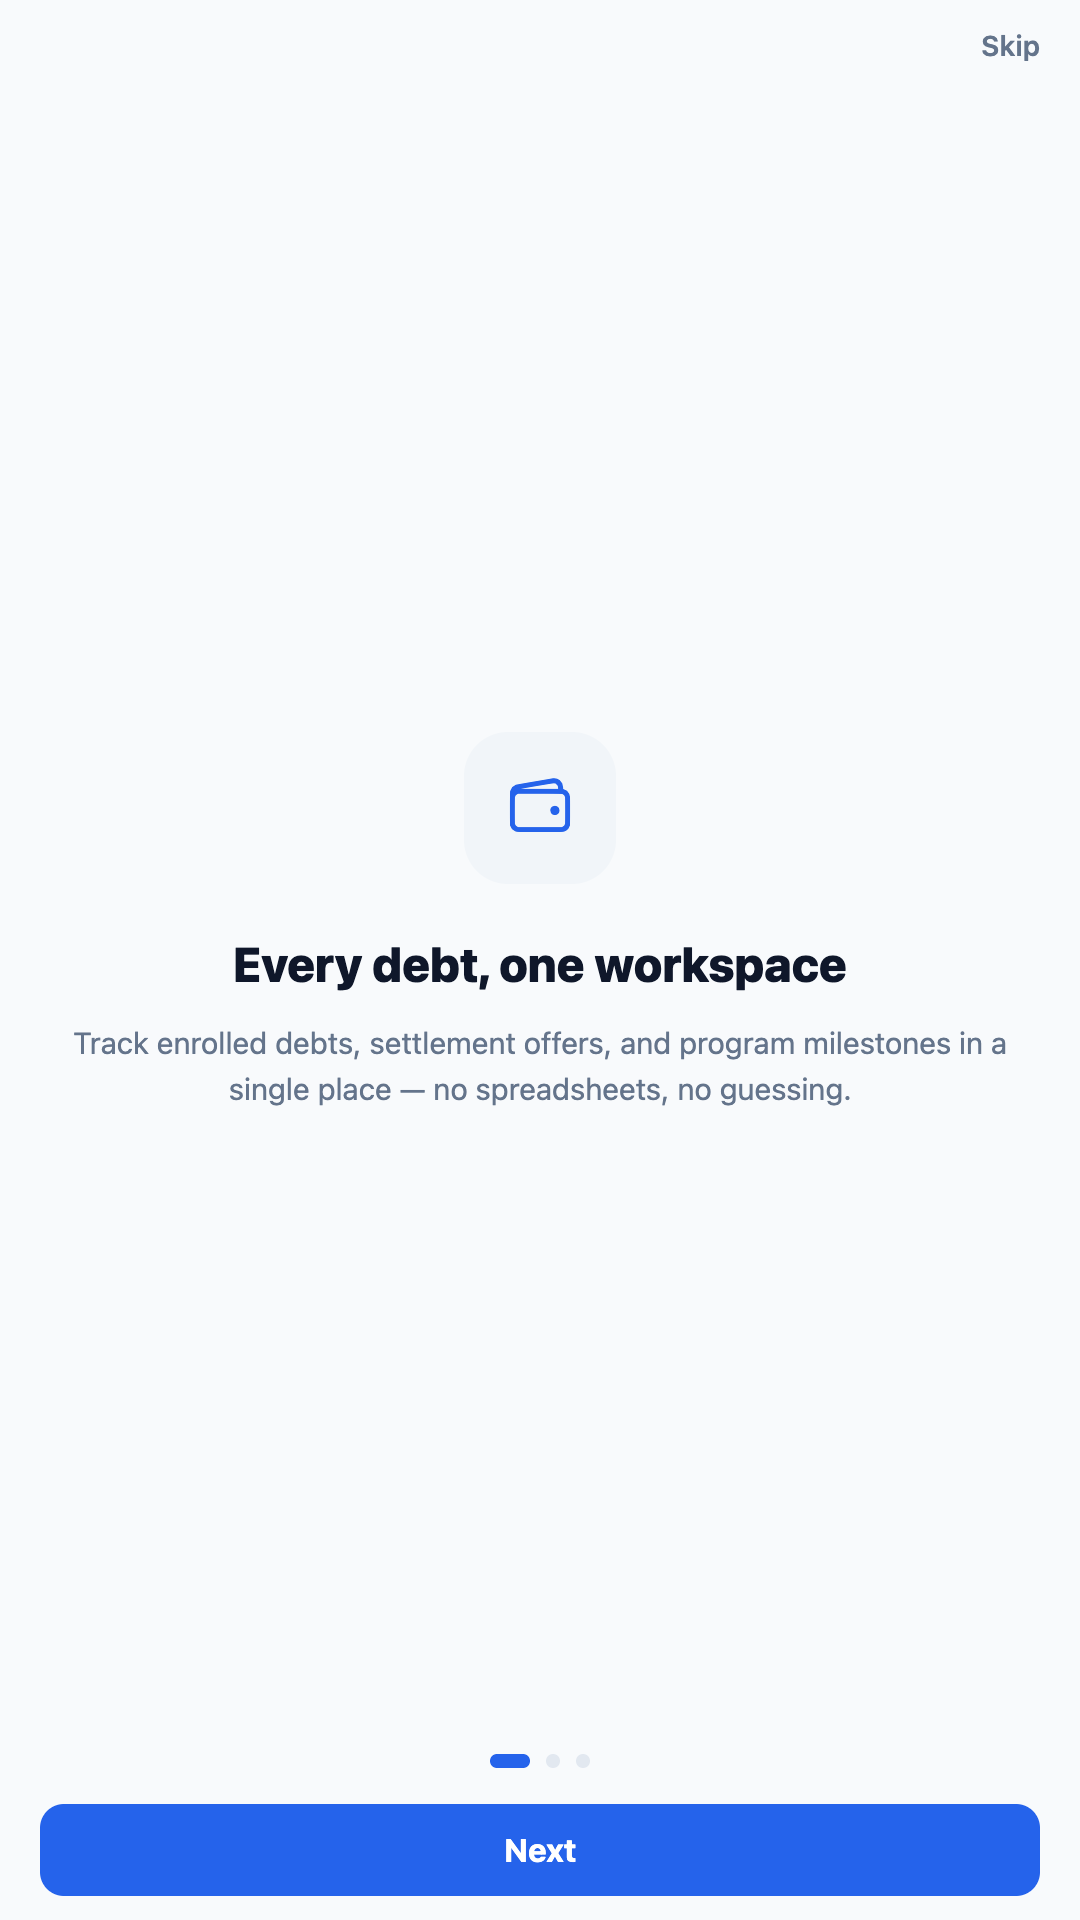
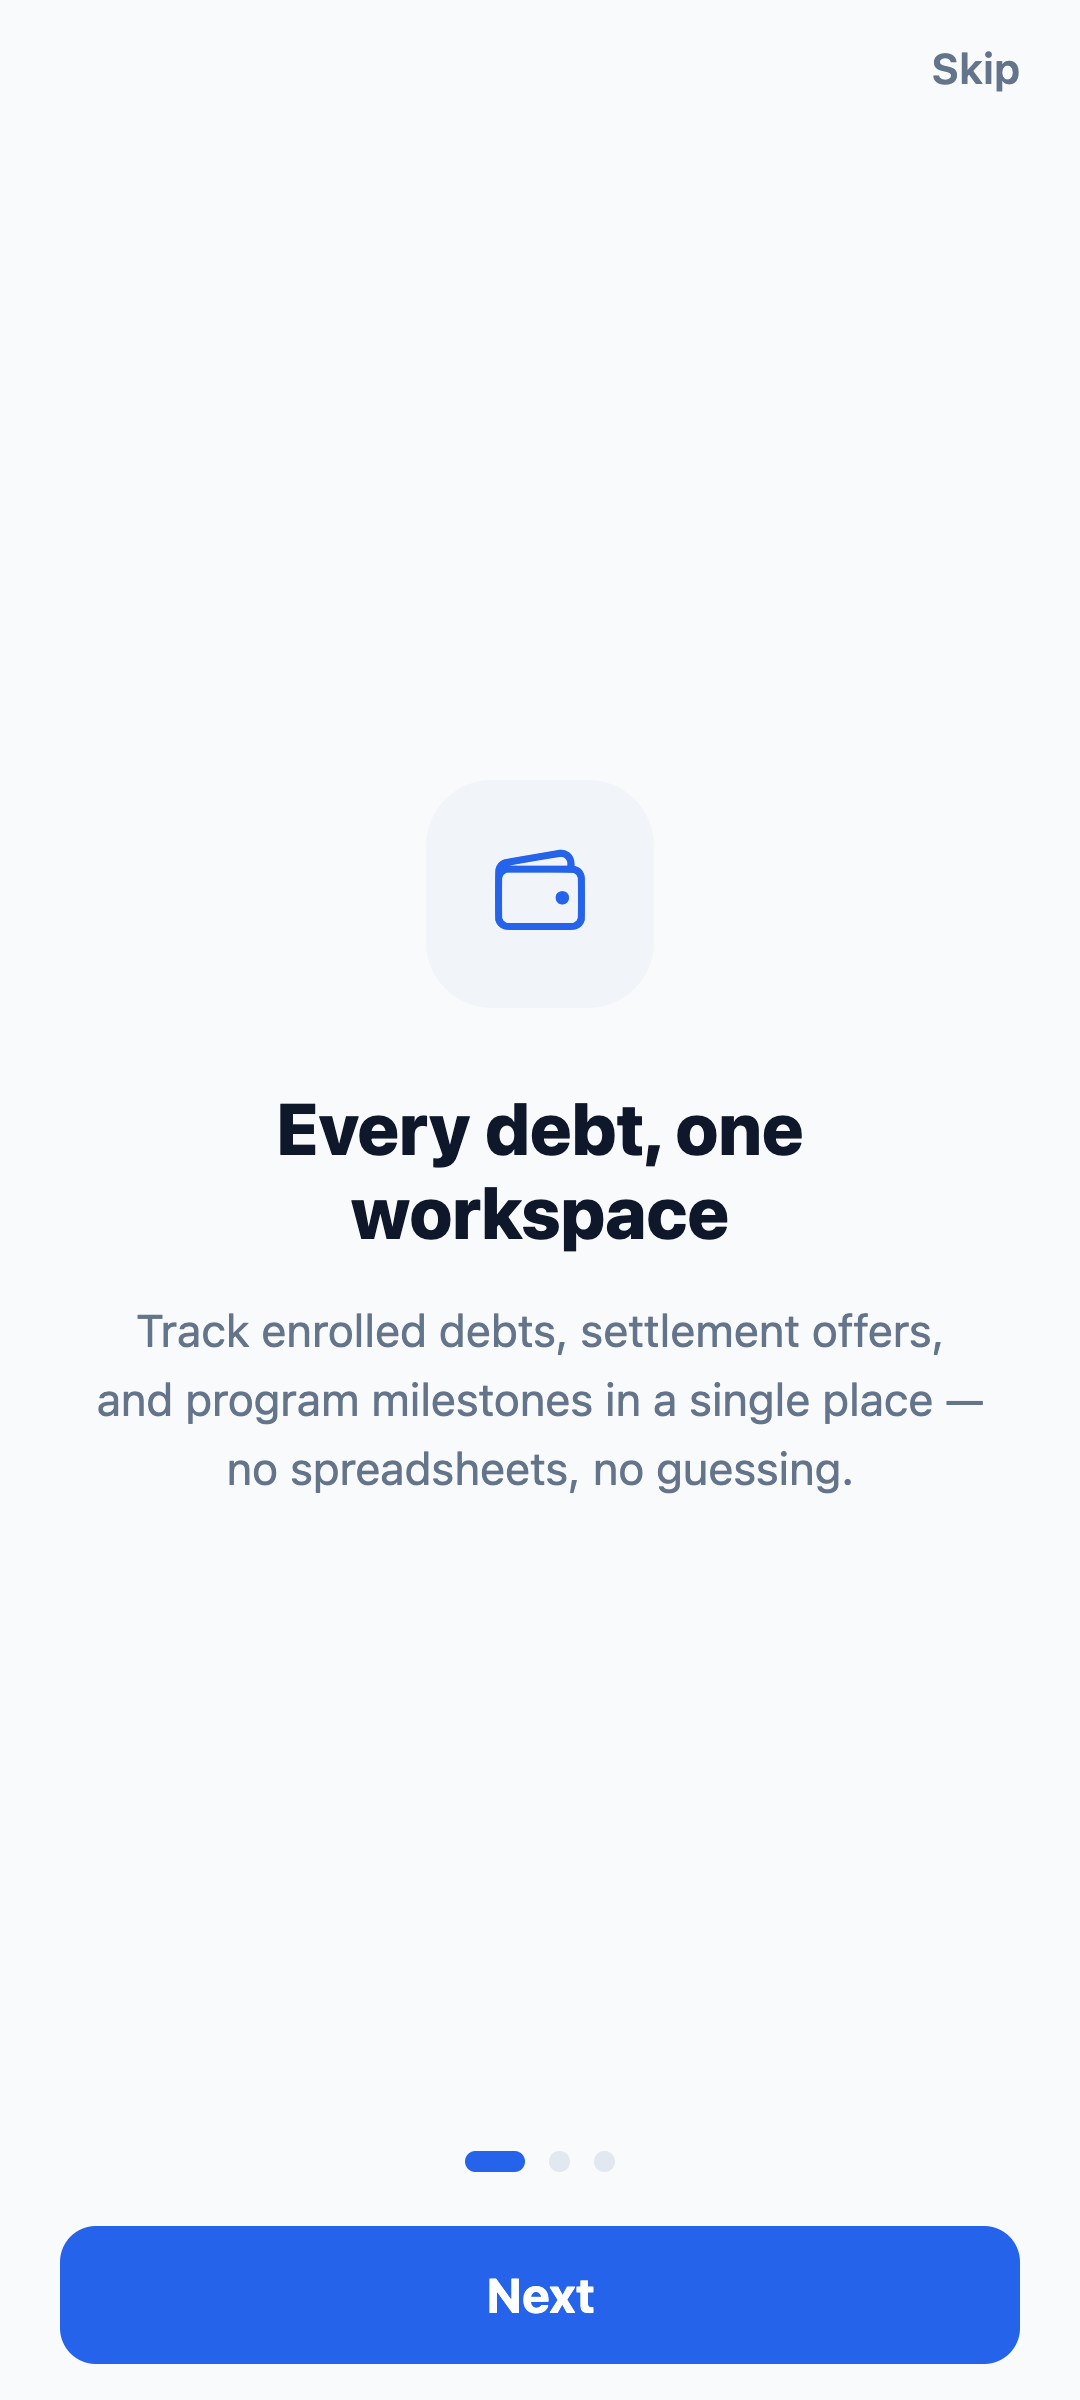
settle-mobile: store-listing screenshots (60 PNGs, 5 size classes) + capture tooling
Real-UI shots via expo export --platform web + Playwright/Brave at exact
store viewports; authed screens seeded with applereview@ reviewer session.
ios/ 1290x2796, ios-6.5/ 1242x2688, ipad/ 2048x2732, play/ 1080x2400,
play-tablet/ 1600x2560 -- 12 shots each (onboarding, auth, dashboard,
debts, assessment, attorneys, coaching, learn, calculators).
scripts/capture-store-shots.mjs is reusable; ASC keywords+subtitle added
to docs/store-listing.md. NEEDS_HUMAN annotated: upload remains.

diff --git a/.devin/AGENT_STATE.md b/.devin/AGENT_STATE.md
@@ -27,8 +27,6 @@ Daily ritual: **round table 8:00 AM PT** — new ideas get ranked into P1–P3 t
 
 ## Active
 
-- 2026-11-23 | devin-settle-shots | **IN PROGRESS** — store-listing screenshots for settle-mobile (NEEDS_HUMAN line ~22). Method: real-UI capture via `expo export --platform web` + Playwright/Brave at exact store viewports (proven by commit 2996f1d `screenshots/play/` recipe); authed screens seeded via reviewer account applereview@ (login verified live). Producing ios 6.7" (1290×2796), ios 6.5" (1242×2688), ipad 12.9" (2048×2732), play phone (1080×2400) + tablet (1600×2560). | `settle-mobile/screenshots/{ios,ios-6.5,ipad,play,play-tablet}/`, `settle-mobile/scripts/capture-store-shots.mjs`, `.devin/{AGENT_STATE,NEEDS_HUMAN}.md` |
-
 - 2026-12-27 | devin-dep-triage-settle | **DONE — `0274c6b` pushed.** Dependabot round-3: all 3 open alerts fixed via root `pnpm.overrides` selectors mirroring Prime's proven set (`204b3cb76`). (1) `glob@>=9.0.0 <=14.0.1`→`>=14.0.2 <15` (GHSA-3g3m-2fjr-6pw4 med, AbortSignal bypass — replaced the old `glob@10:10.5.0` pin that was _holding_ a vulnerable version; glob 10.5.0/13.0.6→14.0.6, glob@7.2.3 untouched/out-of-range). (2) `minimatch@>=7.0.0 <11.0.1`→`>=11.0.1 <12` (GHSA-g3hv-75wg-m249 med, globparts DoS — 9.0.9/10.2.5→11.0.9; 3.1.5 untouched). (3) `@expo/cli>zod`→`>=4.6.6 <5` scoped override (GHSA-mrhx-c7xc-m3w5 HIGH — @expo/cli pins zod@^3, no 3.x patch exists; resolved to 4.6.7; Prime verified expo CLI's zod use = basic schema constructs safe under zod4). Verified: `pnpm audit` **0 vulns**; `settle-api nest build` clean; `settle-web` + `settle-mobile` `tsc --noEmit` clean. Dependabot alerts auto-close on next manifest scan post-push. Deploy note: no runtime code changed; typeorm's runtime glob moves 10→14 (same glob()/globSync API — Prime api runs this combo). | `package.json`, `pnpm-lock.yaml`, `.devin/AGENT_STATE.md` |
 
 - 2026-11-21 | devin-settle-tiktok | **BLOCKED — TikTok `error_code 7` (device rate-limit cooldown), NEEDS_HUMAN filed.** Single permitted login attempt for `@settleinpeacenow` (vault `tiktok-settle`) returned "Maximum number of attempts reached. Try again later." immediately after submit — no captcha/code-wall/app-gate, pure IP/device cooldown from today's earlier automated TikTok logins (bargain-tiktok 2 attempts ~17:55Z + Prime error_code 7). Fresh Brave clone had NO existing TikTok session to reuse. Ready to resume post-cooldown: `~/dev-tmp/settle-tiktok/login.mjs` (single-attempt login) → then photo-post upload of `/tmp/prime-promo/settle-ad.png` + debt-relief caption. Retry path also viable via owner's real-Brave login → reclone profile (zero burned attempts). | `~/dev-tmp/settle-tiktok/`, `.devin/AGENT_STATE.md`, `.devin/NEEDS_HUMAN.md` |
@@ -201,6 +199,7 @@ Daily ritual: **round table 8:00 AM PT** — new ideas get ranked into P1–P3 t
 - **Lead vendor credentials**: no real vendor accounts yet. To enable a vendor (boberdoo / LeadsPedia / LeadProsper / etc.), set `LEADVENDOR_NAMES=<name>` plus `LEADVENDOR_<NAME>_PING_URL`/`_POST_URL`/`_ORDER_URL`/`_KEY` (auth style via `_AUTH`, wire format via `_FORMAT`) on settle-api — see `.env.example`. For inbound delivery, set `LEADVENDOR_<NAME>_WEBHOOK_SECRET` and point the vendor at `POST /lead-vendors/import/webhook?vendor=<name>` with `X-Lead-Vendor-Signature` (HMAC-SHA256 of raw body). Until configured, `/lead-vendors` shows "not configured" and purchase returns 503.
 
 ## Recently landed
+- 2026-11-23 | devin-settle-shots | **DONE — `83e974a`. Store-listing screenshot set complete (60 PNGs, all dims verified exact).** Method: real UI — `expo export --platform web` (SDK 56, ~24s bundle) served locally + Playwright/Brave at store-exact viewports; prod-api calls proxied through `page.route` to bypass prod CORS (prod only allows settleinpeace.com); authed shots seeded via `@settle_*` localStorage keys using the applereview@ reviewer login (verified live — real $21,900/4-debt seeded dashboard). Tooling committed as `settle-mobile/scripts/capture-store-shots.mjs` (reusable; env-overridable). Sets: `screenshots/ios/` 1290×2796 (iPhone 6.7"), `ios-6.5/` 1242×2688, `ipad/` 2048×2732 (12.9"), `play/` 1080×2400, `play-tablet/` 1600×2560 — 12 shots each: onboarding×3, login, register, dashboard, debts, assessment, attorneys, coaching, learn, calculators. iOS sim skipped (no built .app; RN 0.85 Hermes flag = rabbit hole). NEEDS_HUMAN line annotated — remaining = ASC/Play upload at next submit (`asc-screenshot.mjs IPHONE_67|IPHONE_65|IPAD_13`). Also added ASC subtitle+keywords to `docs/store-listing.md`. ⚠ play/ set is now 1080×2400 — replaces the older 1080×1920 shots (deleted, regenerated). | `settle-mobile/screenshots/{ios,ios-6.5,ipad,play,play-tablet}/`, `settle-mobile/scripts/capture-store-shots.mjs`, `docs/store-listing.md`, `.devin/{AGENT_STATE,NEEDS_HUMAN}.md` |
 - 2026-12-27 | devin-portal-pay | **DONE — `aba18f6` pushed, NOT deployed.** Debtor payment portal built DARK (NEEDS_HUMAN 2026-10-25 item: `/portal/pay/:token` was dead code — token never minted, no page). **API:** `issuePortalToken`/`revokePortalToken` (256-bit random → `customFields.portalAccessToken` + issuedAt/issuedBy) behind new SalesGuard'd `POST|DELETE /collections/accounts/:id/portal-link` (mint is idempotent unless `rotate:true`; every mint/revoke writes a CollectionNote audit trail — generation only, NO send wired). Public payloads sanitized: `GET /portal/pay/:token` now returns whitelisted fields + `creditorName`/`debtorFirstName`/`miniMiranda`/`paymentDisclosure` — raw entity leaked `customFields` (incl. the token itself + internal flags) and Settlement `negotiation_history`/`notes` to any token holder. `getPaymentOptions`/`getPaymentHistory` whitelisted too. **Fixed real bug:** `makeOneTimePayment` credited balance on ANY non-throw PI status — now only `succeeded` credits; `requires_action` returns `{clientSecret,paymentIntentId}` and new idempotent `POST :token/payment/complete` credits after client-side 3DS (`customFields.portalCreditedPaymentIntents` dedupe). **Web:** `/pay/[token]` (noindex, dynamic) — read-only balance/creditor/plan summary + Stripe Elements pay CTA (`NEXT_PUBLIC_STRIPE_PUBLISHABLE_KEY`-gated, graceful fallback when unset) showing house FDCPA mini-Miranda + payment-authorization disclosure VERBATIM from API payload; fails closed on bad/revoked token. Staff `PortalLinkPanel` (generate/copy/rotate/revoke) in collections Take Payment tab. **Verified:** `nest build` clean, `next build` clean (306 pages, /pay/[token] ƒ), web `tsc --noEmit` clean. **GATED (not deployed):** (a) link DELIVERY stays owner/counsel decision — no SMS/email send exists; (b) live needs deploy + `NEXT_PUBLIC_STRIPE_PUBLISHABLE_KEY` on CF worker env at build; (c) `automatic_payment_methods.allow_redirects:'never'` means truly redirect-only cards error rather than 3DS (acceptable for dark build). | `settle-api/src/payment-portal/`, `settle-api/src/collections/{collections.{controller,service,module}.ts,dto/issue-portal-link.dto.ts}`, `settle-web/src/app/pay/[token]/`, `settle-web/src/components/payments/PortalLinkPanel.tsx`, `settle-web/src/app/collections/page.tsx`, `.devin/{AGENT_STATE,NEEDS_HUMAN}.md` |
 - 2026-11-22 | devin-sip-icon-resubmit | **DONE — v1.0.0 RESUBMITTED with WAVEFORM icon, WAITING_FOR_REVIEW (config commit `29e4a9c`).** The in-review b11 embedded the old blue SP monogram; canonical mark = "Calm Arrival" waveform (regen'd into `assets/icon.png` Nov 15, `5426a08`). Local `eas build -p ios --profile production --local` detached (FASTLANE timeouts per recipe; remote counter 11 → autoIncrement **12**) → `dist/settle-b12.ipa` 12.95MB, CFBundleVersion=**12** verified in Info.plist. **IPA icon verified:** extracted `Payload/SettleInPeace.app/AppIcon60x60@2x.png` + `AppIcon76x76@2x~ipad.png` (Apple CgBI PNGs — `sips -s format png` converts to readable) → BOTH render the emerald waveform on navy, visually confirmed. ⚠ GOTCHA: `assetutil --info` `SHA1Digest` is a rendition-KEY digest, NOT pixel content — old-icon and new-icon reference cars produce identical digests, so the recorded "062BED57/D7B9E50E" digests are slot-name constants and useless for icon identity; visual/decode check is the only reliable verify. altool upload (PPQQ3TLU4A) → delivery+build id `f89c3c78-6675-4a47-b67e-e538b56a3f5e` **VALID ~2min**. Resubmit: PATCH 7a9f2805 canceled:true → version → DEVELOPER_REJECTED (~15s) → attach f89c3c78 → reused empty draft sub `9a53bbfc` + item + submitted:true → **9a53bbfc-a23a-4c24-98e2-63c3d636ac32 WAITING_FOR_REVIEW 2026-11-23T07:04:49Z, version build = 12**. iconAssetToken render `is1-ssl.mzstatic.com/.../AppIcon76x76@2x.../120x120bb.png` = waveform, confirmed. Remote EAS counter now 12 → next local build = 13. | `settle-mobile/{app.json,dist/settle-b12.ipa}`, `~/dev-tmp/asc-review/{settle-resubmit.mjs,poll-b12.mjs}`, `.devin/AGENT_STATE.md` |
 - 2026-11-20 | devin-settle-ig-post | **IG PROMO POSTED ✅ — https://www.instagram.com/settleinpeacenow/p/Df_RuAZpfPQ/** First post on owner-created `@settleinpeacenow` (uid 16539484945, vault `instagram-settle` — password is the `U@`-suffixed variant, worked first try, ZERO gates: no code-wall/captcha/2FA/suspicious-activity). Brave cloned-profile Playwright (fresh clone `~/dev-tmp/settle-ig/brave-clone` — live profile untouched; clone KEPT so the IG session survives for future posts). Recipe notes: clone inherited the owner's logged-in `primetransitinc` session → `ctx.clearCookies()` in the clone forces the login form (new logged-out homepage inputs are `input[name="email"]`/`input[name="pass"]`, NOT username/password). Post flow = nav `svg[aria-label="New post"]` → "Post" → `input[type=file]` → Crop **Next** → Filters **Next** → caption → **Share**. ⚠ KNOWN IG BUG (same one sibling hit on the Prime reel): caption typed into the create dialog does NOT persist through Share — the post published with an EMPTY caption. Fix = post page → `svg[aria-label="More options"]` → Edit → `keyboard.type` into `div[role=dialog] [contenteditable]` → Done (verified persisted on reopen, now shows "Edited" marker). Profile verified: **1 post**, caption live with all 4 hashtags + settleinpeace.com. IG auto-applied its own "AI content" label to the AI-generated ad image (harmless, platform-side). No paid/boost prompts accepted; "View insights" already available. | `~/dev-tmp/settle-ig/*.mjs`, `.devin/AGENT_STATE.md` |

diff --git a/.devin/NEEDS_HUMAN.md b/.devin/NEEDS_HUMAN.md
@@ -19,7 +19,7 @@ Format: `- <date> | <blocked> | needs: <action> | ref:`
 - [x] 2026-10-25 | settle-mobile app-store submission blocked on store accounts | needs: (a) Apple Developer Program login + create ASC app record "Settle In Peace" / com.settleinpeace.mobile; (b) Play Console account + app record com.settleinpeace.mobile + service-account JSON dropped at settle-mobile/credentials/google-play-service-account.json (gitignored); then run eas build/submit per settle-mobile/STORE_SUBMISSION.md | ref: settle-mobile/eas.json, STORE_SUBMISSION.md | resolved 2026-11-22: store records exist — ASC app 6830647835 (v1.0.0 submitted; b12 resubmit in flight per AGENT_STATE) + Play record com.settleinpeace.mobile created 2026-11-04 w/ eas-play-submit SA granted
 - 2026-10-25 | EAS project created under Expo account @notyced (only login on this box) | needs: confirm OK, or create a "settle" org on expo.dev and re-run `eas init --id` | ref: settle-mobile/app.json extra.eas.projectId
 - 2026-10-25 | settle-mobile on Expo SDK 56 — expo-doctor flags Hermes V1 memory regression (RN 0.85); fixed in SDK 57 / RN 0.86.2 | needs: product decision — upgrade (`npx expo install expo@^57.0.9 --fix`) before or after first submission | ref: settle-mobile/STORE_SUBMISSION.md "Known non-blocking issues"
-- 2026-10-25 | Store listing assets needed | needs: screenshots (iPhone 6.7"/6.5" + iPad 12.9" since supportsTablet=true; Android phone/tablet + feature graphic 1024x500) + short/full description + keywords | ref: settle-mobile/STORE_SUBMISSION.md
+- 2026-10-25 | Store listing assets needed | needs: screenshots (iPhone 6.7"/6.5" + iPad 12.9" since supportsTablet=true; Android phone/tablet + feature graphic 1024x500) + short/full description + keywords | ref: settle-mobile/STORE_SUBMISSION.md | assets DONE 2026-11-23 (devin-settle-shots): 60 real-UI screenshots at `settle-mobile/screenshots/{ios,ios-6.5,ipad,play,play-tablet}/` (12 shots each, exact store px — capture script `scripts/capture-store-shots.mjs`); feature graphic + icon already in `assets/`; copy + ASC keywords in `docs/store-listing.md`. **Remaining: upload to ASC + Play listings at next submit** (`scripts/asc-screenshot.mjs IPHONE_67|IPHONE_65|IPAD_13` for ASC)
 - 2026-10-30 | Awin partner invite (brkox) — acceptance = agreeing to their T&Cs, business decision | needs: owner review + accept/decline in Awin dashboard | ref: .devin/OWNER_TASKS.md
 - 2026-10-30 | Provider-invite pipeline is ready but has no real prospects — `tools/provider-invite/generate_invite_emails.mjs` converts a CSV (company,email,contact,state) into a 3-touch outreach batch, but we need the actual prospect list | needs: a CSV of licensed debt-settlement providers to contact (AFCC member directory, state licensing registries, or a purchased list); drop it as `tools/provider-invite/prospects.csv` and any agent can generate the batch. Also decide CAN-SPAM sender (which mailbox sends + real unsubscribe link) before importing into Resend | ref: tools/provider-invite/README.md
 - [x] 2026-10-30 | Provider enrollment pipeline NOT live yet — migration 0048 is applied to the shared DB but the new endpoints are only in main | **RESOLVED 2026-11-09 (devin-audit-settle)** — providers/enroll + set-password deployed to oracle (dist includes commit series; /providers + /portal/billing 200 live) | ref: commits 9ee5b62/cc57ea7/24ad01b, AGENT_STATE.md

diff --git a/docs/store-listing.md b/docs/store-listing.md
@@ -29,3 +29,29 @@ data), user-entered assessment text — all App Functionality, linked to
 user. Not shared with third parties (backend shares with relief providers
 only with explicit consent). Encrypted in transit. Deletable in-app
 (Profile → Delete Account). Adults only — do not select 13 & under.
+
+## App Store (ASC) metadata
+
+- **Subtitle (≤30):** Debt relief, made clear
+- **Keywords (≤100, comma-separated, no spaces needed):**
+  `debt,debt relief,debt settlement,budget,credit card debt,payoff,debt calculator,bankruptcy,debt free` (100 chars)
+
+## Screenshots (devin-settle-shots, 2026-11-23)
+
+Real UI captured from `expo export --platform web` at exact store sizes via
+`settle-mobile/scripts/capture-store-shots.mjs` (Playwright + Brave; authed
+shots seeded with the applereview@ reviewer login — real dashboard/debt/
+attorney data from prod API).
+
+| Dir | Device class | Size | Notes |
+|---|---|---|---|
+| `settle-mobile/screenshots/ios/` | iPhone 6.7" (IPHONE_67) | 1290×2796 | 12 shots: onboarding×3, login, register, dashboard, debts, assessment, attorneys, coaching, learn, calculators |
+| `settle-mobile/screenshots/ios-6.5/` | iPhone 6.5" (IPHONE_65) | 1242×2688 | same 12 |
+| `settle-mobile/screenshots/ipad/` | iPad 12.9" (IPAD_13) | 2048×2732 | same 12 |
+| `settle-mobile/screenshots/play/` | Android phone | 1080×2400 | same 12 |
+| `settle-mobile/screenshots/play-tablet/` | Android tablet | 1600×2560 | same 12 |
+
+Upload: ASC → `node settle-mobile/scripts/asc-screenshot.mjs IPHONE_67 screenshots/ios/*.png`
+(IPHONE_65 / IPAD_13 likewise); Play → Play Console listing image picker or
+`eas-play-submit` images API. Feature graphic + hi-res icon already at
+`settle-mobile/assets/play-feature-1024x500.png` / `play-icon-512.png`.
